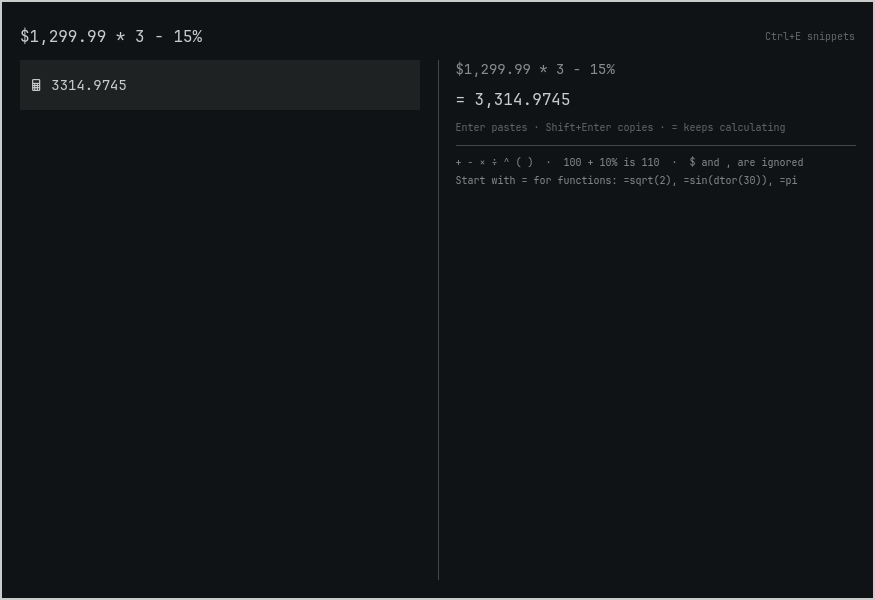
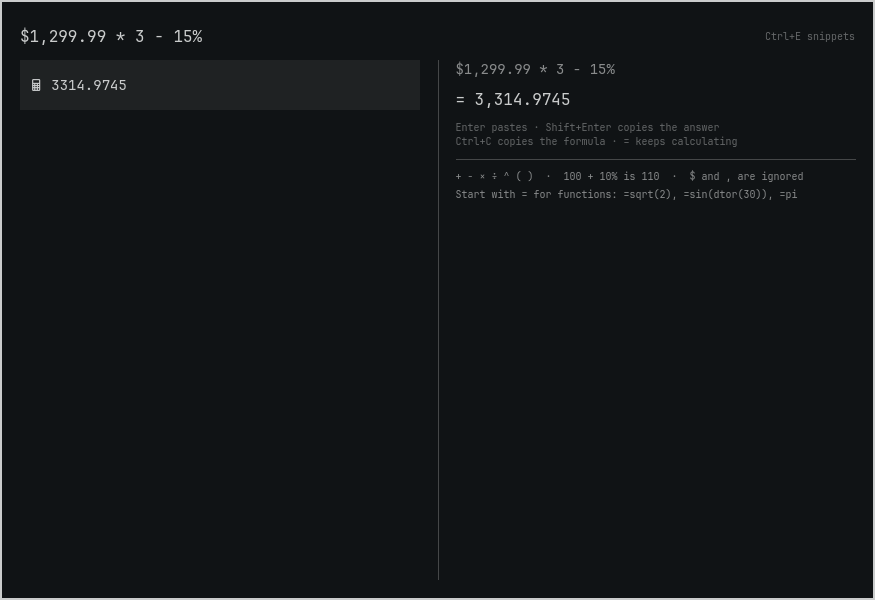
Copy the formula with Ctrl+C
Ctrl+C in the picker copies the calculation exactly as typed, = prefix
and all, rather than its answer, and closes the picker as Shift+Enter
does. It only acts while the search box holds a calculation; during an
ordinary search it does nothing. The key hint under an answer now says
so, split over two lines so it no longer wraps mid-phrase.

Changed region(s): [[0.5246, 0.21, 0.9566, 0.33]]

diff --git a/Clipboard.qml b/Clipboard.qml
@@ -275,6 +275,16 @@ Item {
     return true
   }
 
+  // +calculator: Ctrl+C copies the formula itself, exactly as typed, rather
+  // than its answer — to keep it, or to carry it somewhere else. Only while
+  // the box holds a calculation; during a search it does nothing.
+  function copyFormula() {
+    if (Calculator.evaluate(root.filterText, root.calcOptions) === null) return false
+    root.opened = false
+    root.runDetached(["run", "paste-text", "--copy-only", root.filterText])
+    return true
+  }
+
   // Hands the raw file to the user's editor in a terminal. The helper watches
   // the path, so saving in $EDITOR refreshes the picker with no further action.
   //
@@ -688,6 +698,13 @@ Item {
             return
           }
 
+          // +calculator: copy the formula typed so far.
+          if ((event.modifiers & Qt.ControlModifier) && event.key === Qt.Key_C) {
+            root.copyFormula()
+            event.accepted = true
+            return
+          }
+
           if (event.key === Qt.Key_Escape) {
             if (root.filterText) root.setFilter("")
             else root.close()
@@ -1012,7 +1029,7 @@ Item {
                 Text {
                   textFormat: Text.PlainText
                   width: parent.width
-                  text: "Enter pastes · Shift+Enter copies · = keeps calculating"
+                  text: "Enter pastes · Shift+Enter copies the answer\nCtrl+C copies the formula · = keeps calculating"
                   color: root.foreground
                   opacity: 0.45
                   font.family: root.fontFamily

diff --git a/test/picker.test.qml b/test/picker.test.qml
@@ -115,6 +115,13 @@ ShellRoot {
         plugin.activateIndex(0)
         break
 
+      case 8:
+        plugin.setFilter("hello")
+        root.ok(!plugin.copyFormula(), "Ctrl+C during a search copies nothing")
+        plugin.setFilter("=sqrt(16) * 3")
+        root.ok(plugin.copyFormula(), "Ctrl+C copies the formula")
+        break
+
       case 12:
         // Leave the detached stub time to write its log.
         console.log(root.failures === 0 ? "\nAll tests passed." : "\n" + root.failures + " failed.")

diff --git a/README.md b/README.md
@@ -60,6 +60,7 @@ way it does in [Alfred](https://www.alfredapp.com/help/features/calculator/).
 ![Calculator](docs/calculator.png)
 
 - **Enter** pastes the answer, **Shift+Enter** copies it
+- **Ctrl+C** copies the formula itself, exactly as typed, `=` prefix and all
 - **`=`** at the end swaps the expression for its answer, so you can keep going:
   `2+2` `=` gives `4`, then type `*3`
 - **`+ - * / ^`** and parentheses, with the usual precedence. `**`, `×`, `÷` work
@@ -104,6 +105,7 @@ In the picker:
 - **Shift+Enter** copies it without pasting
 - **Alt+Enter** edits a snippet, or opens a history entry externally
 - **=** after a calculation replaces it with its answer
+- **Ctrl+C** copies the calculation you typed, rather than its answer
 - **Ctrl+E** opens the snippet editor
 - **Delete** removes a clipboard entry (snippets are deleted from the editor)
 - **Escape** clears the search, then closes
